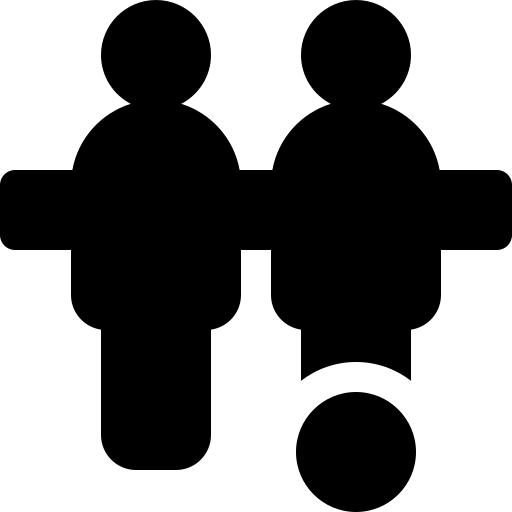
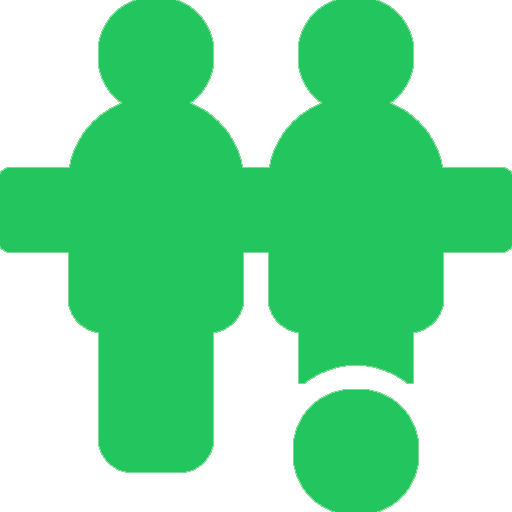
Finalize layout and branding asset updates

diff --git a/front-end/src/routes/+layout.svelte b/front-end/src/routes/+layout.svelte
@@ -1,4 +1,4 @@
-<script lang="ts">
+    <script lang="ts">
     import '../app.css';
     import {ModeWatcher, mode, toggleMode} from "mode-watcher";
     import {onDestroy, onMount} from "svelte";
@@ -7,6 +7,7 @@
     import {Toaster} from "$lib/components/ui/sonner";
     import {page} from '$app/state';
     import {getStoredCurrentPlayerId, setStoredCurrentPlayerId} from '$lib/current-player';
+    import {base} from '$app/paths';
 
     type HeaderPlayer = {
         id: number;
@@ -33,12 +34,17 @@
             .sort((a: HeaderPlayer, b: HeaderPlayer) => a.player_name.localeCompare(b.player_name, undefined, {sensitivity: 'base'}))
     );
     let mePlayerId = $state('');
+    let pendingWhoAmI = $state('');
+    let showWhoAmIModal = $state(false);
     const mePlayer = $derived(
         selectablePlayers.find((player: HeaderPlayer) => String(player.id) === mePlayerId)
     );
     const statsHref = $derived(
         mePlayerId ? `/stats?player_id=${mePlayerId}` : '/stats'
     );
+    const lightFaviconHref = `${base}/foosball_light.png`;
+    const darkFaviconHref = `${base}/foosball.png`;
+    let faviconObserver: MutationObserver | null = null;
 
 
     function isActive(href: string) {
@@ -62,6 +68,27 @@
         const parsed = Number(mePlayerId);
         if (!Number.isFinite(parsed) || parsed <= 0) return;
         setStoredCurrentPlayerId(parsed);
+        pendingWhoAmI = mePlayerId;
+    }
+
+    function confirmWhoAmISelection() {
+        const parsed = Number(pendingWhoAmI);
+        if (!Number.isFinite(parsed) || parsed <= 0) return;
+        mePlayerId = String(parsed);
+        setStoredCurrentPlayerId(parsed);
+        showWhoAmIModal = false;
+    }
+
+    function syncFaviconWithTheme() {
+        if (typeof document === 'undefined') return;
+        const favicon = document.getElementById('app-favicon') as HTMLLinkElement | null;
+        if (!favicon) return;
+
+        const isDark = document.documentElement.classList.contains('dark');
+        const targetHref = isDark ? darkFaviconHref : lightFaviconHref;
+        if (favicon.getAttribute('href') !== targetHref) {
+            favicon.setAttribute('href', targetHref);
+        }
     }
 
     onMount(() => {
@@ -71,11 +98,25 @@
 
         if (storedString && selectablePlayers.some((player: HeaderPlayer) => String(player.id) === storedString)) {
             mePlayerId = storedString;
+            pendingWhoAmI = storedString;
+            showWhoAmIModal = false;
             return;
         }
 
-        mePlayerId = String(selectablePlayers[0].id);
-        onMeChange();
+        mePlayerId = '';
+        pendingWhoAmI = '';
+        showWhoAmIModal = true;
+    });
+
+    onMount(() => {
+        syncFaviconWithTheme();
+        faviconObserver = new MutationObserver(() => {
+            syncFaviconWithTheme();
+        });
+        faviconObserver.observe(document.documentElement, {
+            attributes: true,
+            attributeFilter: ['class']
+        });
     });
 
     let themeTransitionTimeout: ReturnType<typeof setTimeout> | null = null;
@@ -89,6 +130,7 @@
         const root = document.documentElement;
         root.classList.add('theme-switching');
         toggleMode();
+        requestAnimationFrame(() => syncFaviconWithTheme());
 
         if (themeTransitionTimeout) {
             clearTimeout(themeTransitionTimeout);
@@ -103,6 +145,10 @@
     onDestroy(() => {
         if (themeTransitionTimeout) {
             clearTimeout(themeTransitionTimeout);
+        }
+        if (faviconObserver) {
+            faviconObserver.disconnect();
+            faviconObserver = null;
         }
     });
 </script>
@@ -143,6 +189,7 @@
                                 class="h-7 rounded-lg border border-border/70 bg-background px-2 text-xs text-foreground"
                                 onchange={onMeChange}
                         >
+                            <option value="" disabled>Selectionner</option>
                             {#each selectablePlayers as player}
                                 <option value={String(player.id)}>{player.player_name}</option>
                             {/each}
@@ -166,6 +213,39 @@
         </nav>
     </div>
 </header>
+
+{#if showWhoAmIModal && selectablePlayers.length > 0}
+    <div class="fixed inset-0 z-[120] bg-background/70 backdrop-blur-sm">
+        <div class="mx-auto mt-[12vh] w-[min(92vw,420px)] rounded-2xl border border-border/90 bg-card p-5 shadow-[0_18px_40px_rgba(15,23,42,0.22)]">
+            <h2 class="font-display text-2xl font-bold text-foreground">Qui es-tu ?</h2>
+            <p class="mt-1 text-sm text-muted-foreground">
+                Selection obligatoire au premier lancement pour personnaliser tes stats.
+            </p>
+
+            <label class="mt-4 flex flex-col gap-2">
+                <span class="text-xs font-semibold uppercase tracking-[0.12em] text-muted-foreground">Joueur</span>
+                <select
+                        bind:value={pendingWhoAmI}
+                        class="h-10 rounded-xl border border-border/85 bg-background px-3 text-sm text-foreground"
+                >
+                    <option value="" disabled>Choisis ton nom</option>
+                    {#each selectablePlayers as player}
+                        <option value={String(player.id)}>{player.player_name}</option>
+                    {/each}
+                </select>
+            </label>
+
+            <button
+                    type="button"
+                    class="mt-5 inline-flex h-10 w-full items-center justify-center rounded-xl bg-primary text-sm font-semibold text-primary-foreground transition hover:bg-primary/90 disabled:cursor-not-allowed disabled:opacity-50"
+                    onclick={confirmWhoAmISelection}
+                    disabled={!pendingWhoAmI}
+            >
+                Continuer
+            </button>
+        </div>
+    </div>
+{/if}
 
 <main class="w-full">
     {@render children()}

diff --git a/front-end/src/app.html b/front-end/src/app.html
@@ -2,7 +2,8 @@
 <html lang="en">
 <head>
     <meta charset="utf-8"/>
-    <link href="%sveltekit.assets%/favicon.png" rel="icon"/>
+    <title>BabyFoot MyDso</title>
+    <link href="%sveltekit.assets%/foosball.png" id="app-favicon" rel="icon" type="image/png"/>
     <meta content="width=device-width, initial-scale=1" name="viewport"/>
     %sveltekit.head%
 </head>
